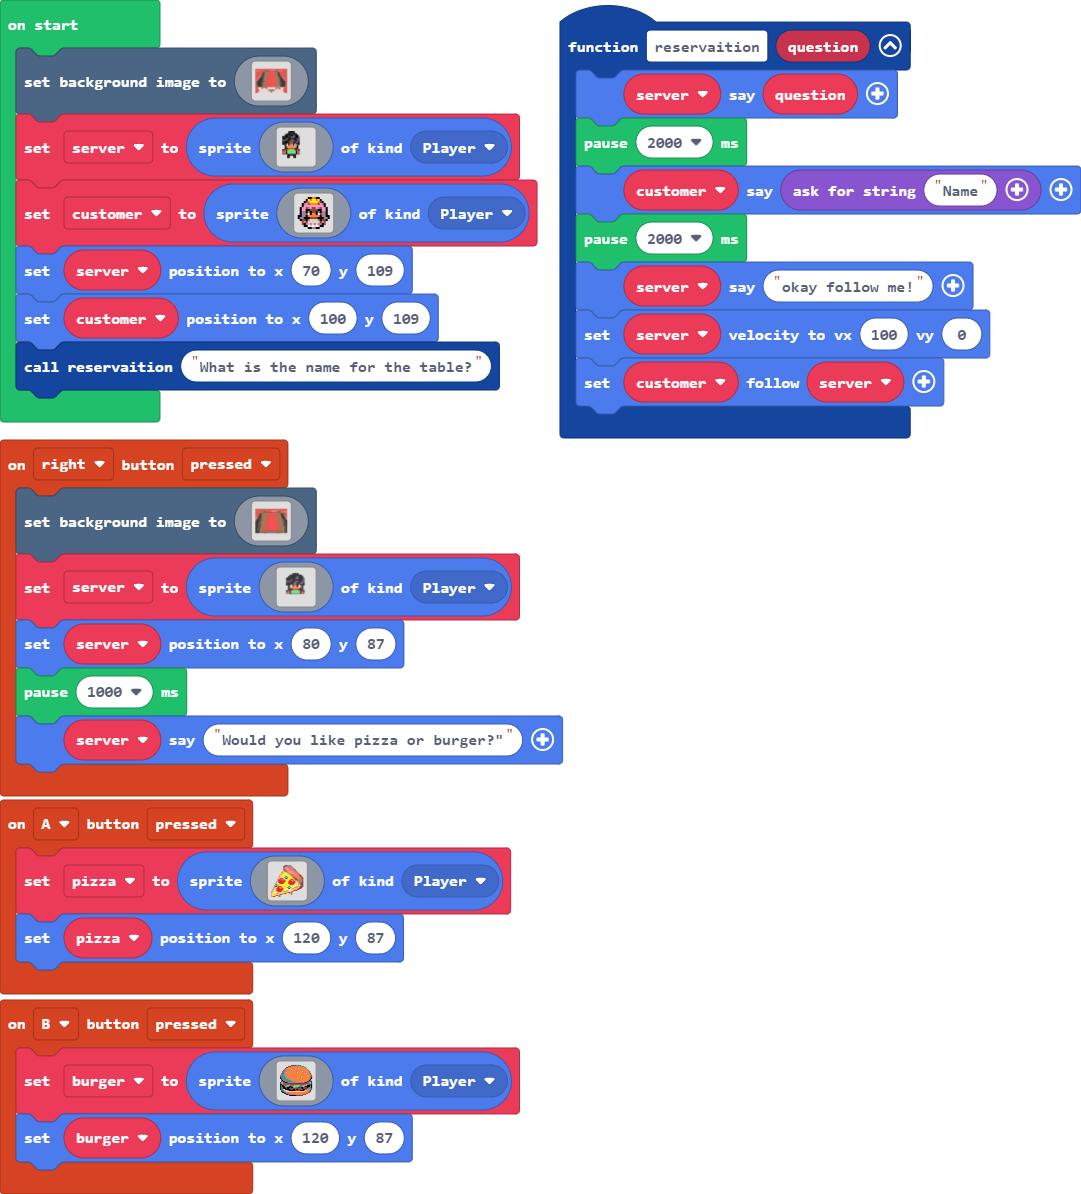
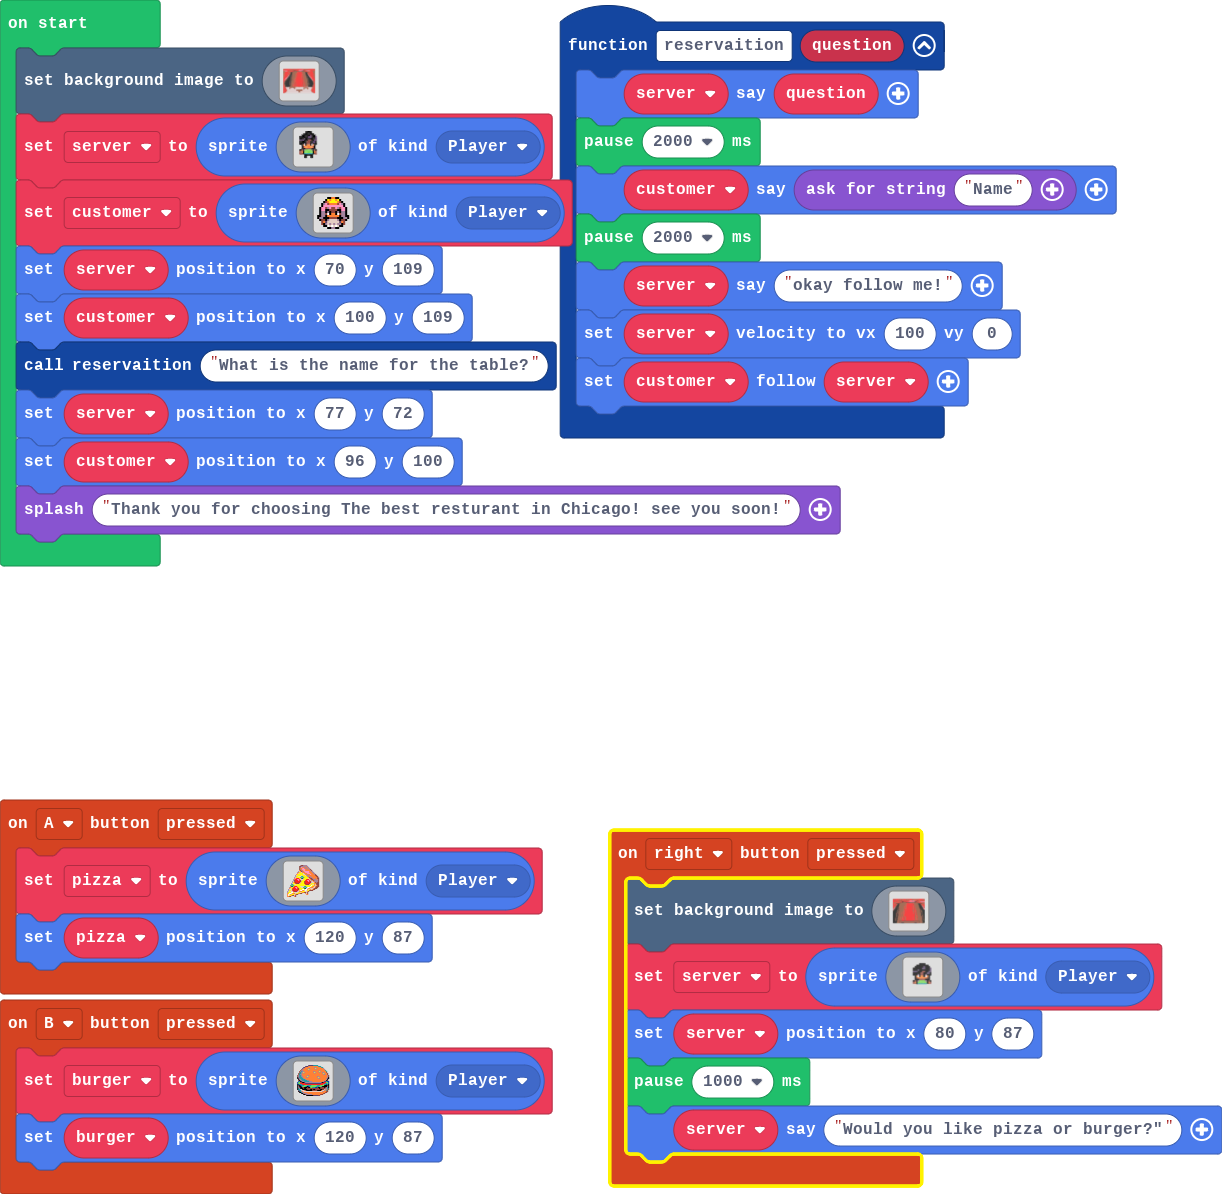
ending

diff --git a/main.ts b/main.ts
@@ -485,3 +485,6 @@ customer = sprites.create(img`
 server.setPosition(70, 109)
 customer.setPosition(100, 109)
 reservaition("What is the name for the table?")
+server.setPosition(77, 72)
+customer.setPosition(96, 100)
+game.splash("Thank you for choosing The best resturant in Chicago! see you soon!")
